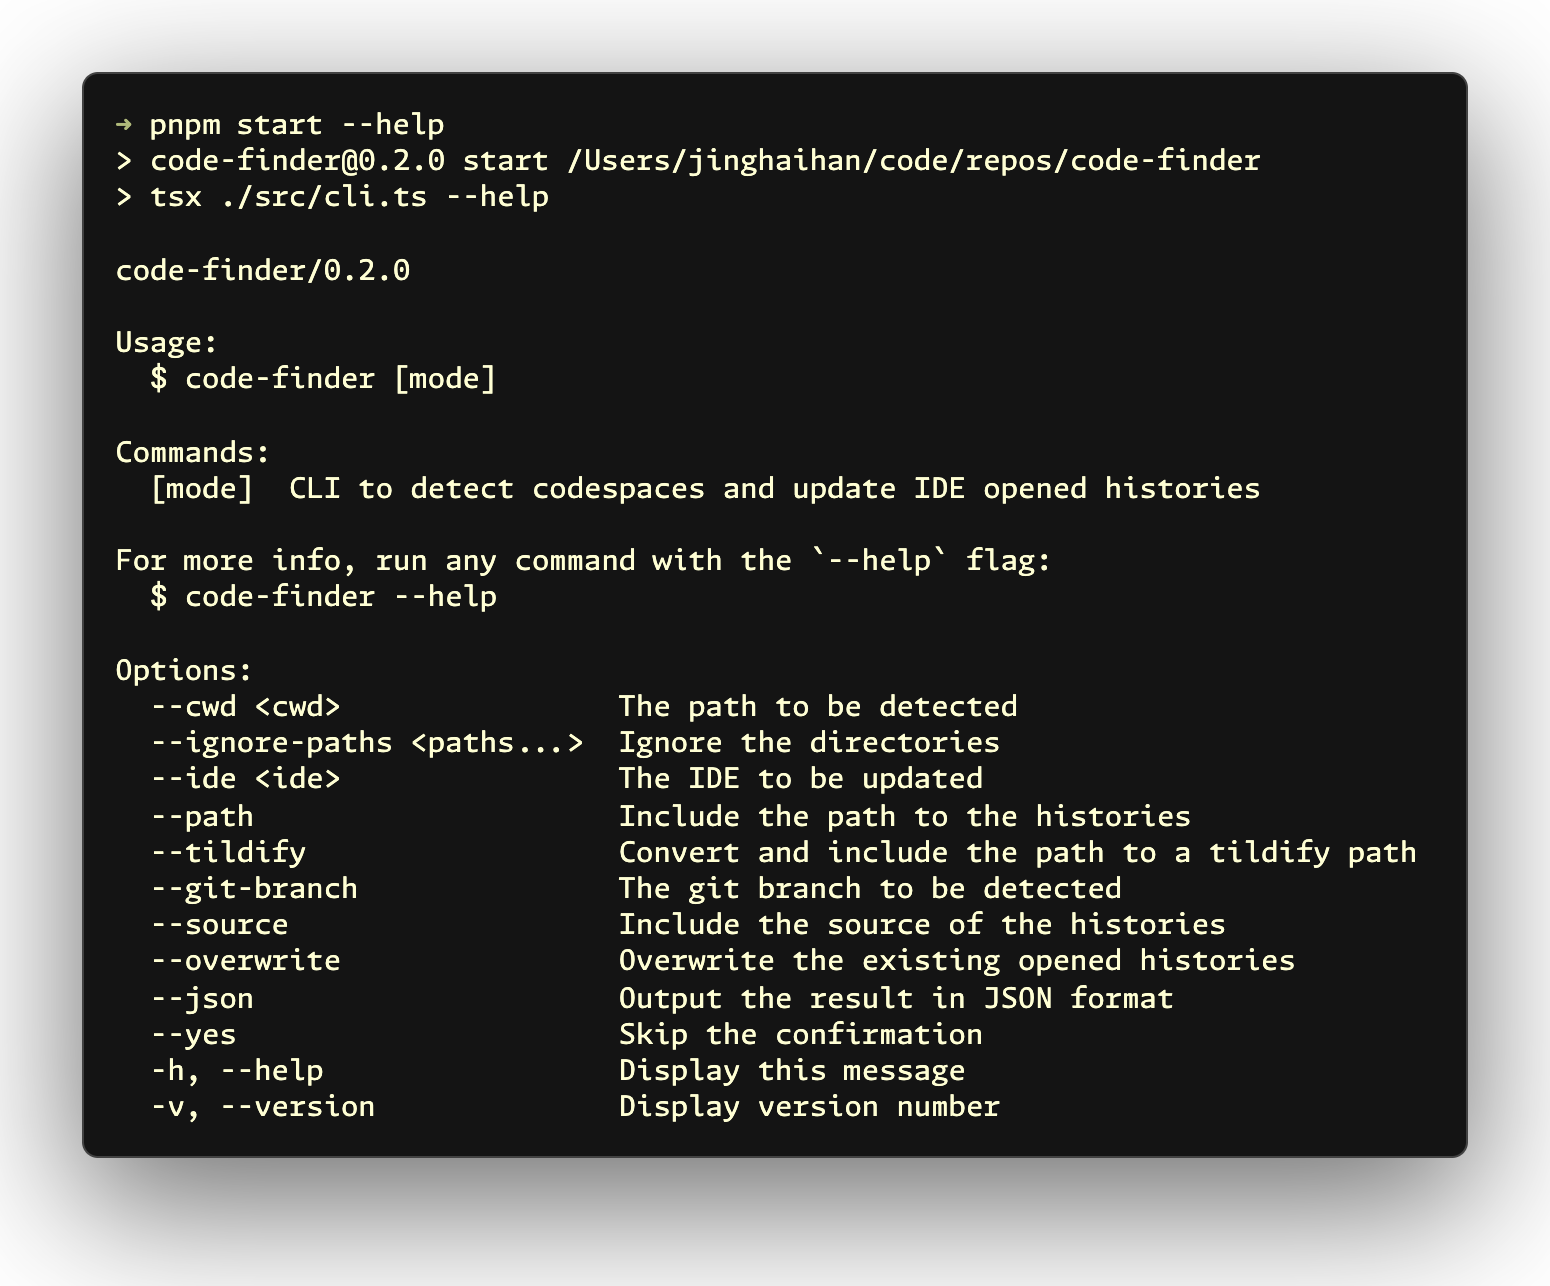
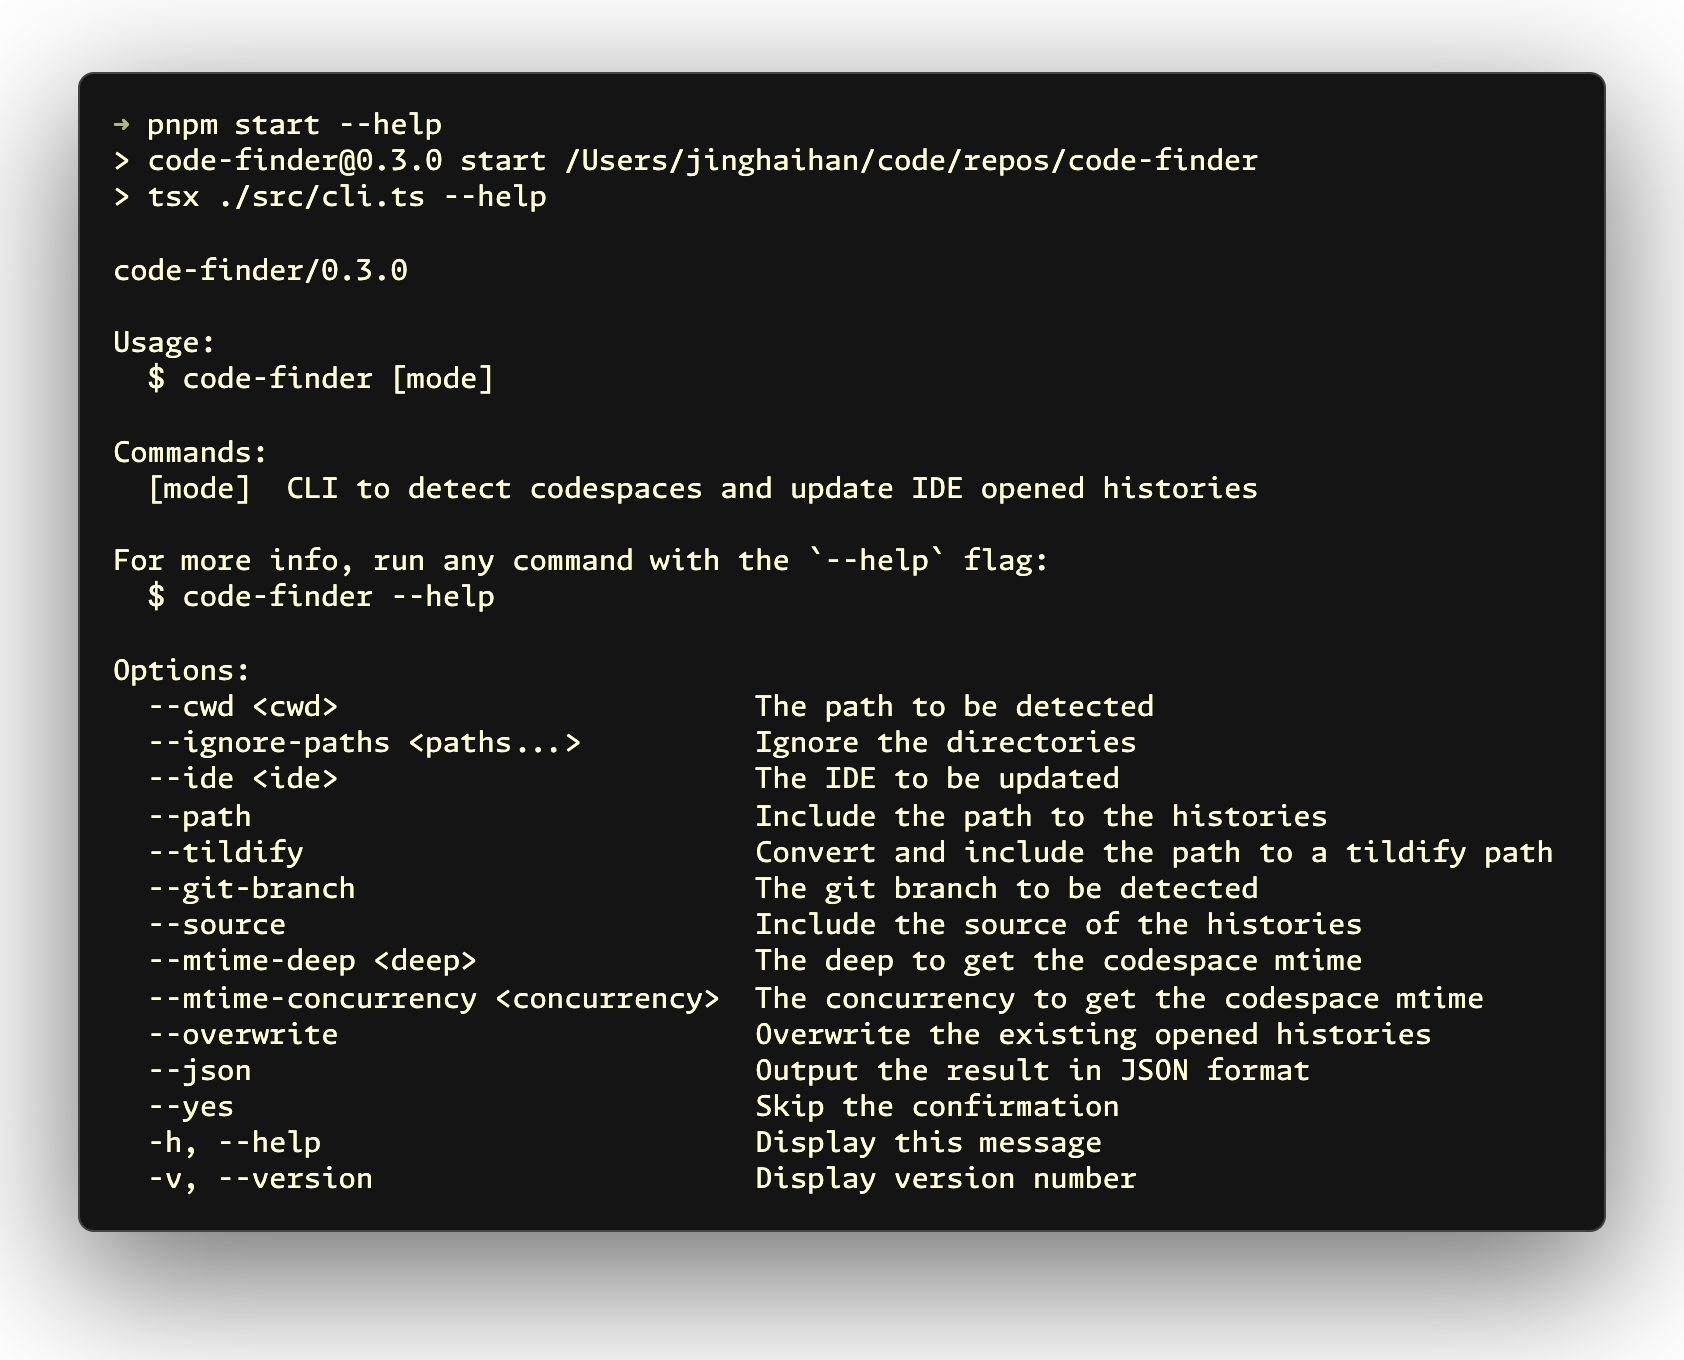
feat: support sort codespaces by mtime

Changed region(s): [[0.031, 0.0311, 0.96, 0.9331], [0.7742, 0.1244, 0.8052, 0.1555], [0.6503, 0.4355, 0.6813, 0.4666]]

diff --git a/src/detect.ts b/src/detect.ts
@@ -1,8 +1,11 @@
-import type { HistoryEntry } from './types'
+import type { DetectOptions, HistoryEntry } from './types'
 import { existsSync } from 'node:fs'
+import { stat } from 'node:fs/promises'
 import { pathToFileURL } from 'node:url'
+import pLimit from 'p-limit'
 import { basename, join } from 'pathe'
-import { CODESPACE_DIRECTORIES, CODESPACE_FILES, IGNORE_DIRECTORIES } from './constants'
+import { CODESPACE_DIRECTORIES, CODESPACE_FILES, DEFAULT_OPTIONS, IGNORE_DIRECTORIES, IGNORE_FILES } from './constants'
+import { sortByMtime } from './utils'
 
 async function readDirs(path: string, ignorePaths: string[]) {
   const { glob } = await import('tinyglobby')
@@ -33,22 +36,74 @@ export async function isCodespace(path: string, ignorePaths: string[]): Promise<
   return dirs
 }
 
-export async function detectCodespaces(path: string, ignorePaths: string[] = []): Promise<HistoryEntry[]> {
+export async function getCodespaceMtime(cwd: string, mtimeDeep: number = DEFAULT_OPTIONS.mtimeDeep, concurrency: number = DEFAULT_OPTIONS.mtimeConcurrency): Promise<number> {
+  const dirStrategy = async () => {
+    const stats = await stat(cwd)
+    return stats.mtime.getTime()
+  }
+
+  const fileStrategy = async (): Promise<number> => {
+    const { glob } = await import('tinyglobby')
+    const files = await glob('*', {
+      cwd,
+      dot: true,
+      absolute: true,
+      onlyFiles: false,
+      deep: mtimeDeep,
+      ignore: [
+        ...IGNORE_FILES,
+        ...IGNORE_DIRECTORIES,
+      ],
+    })
+    if (!files.length)
+      return await dirStrategy()
+
+    const limit = pLimit(concurrency)
+    const results = await Promise.all(files.map(file => limit(() => stat(file))))
+    return Math.max(...results.map(result => result.mtime.getTime()))
+  }
+
+  if (mtimeDeep === 0 || Number.isNaN(mtimeDeep)) {
+    try {
+      return await dirStrategy()
+    }
+    catch {
+      return 0
+    }
+  }
+
+  try {
+    return await fileStrategy()
+  }
+  catch {
+    try {
+      return await dirStrategy()
+    }
+    catch {
+      return 0
+    }
+  }
+}
+
+export async function detectCodespaces(options: DetectOptions): Promise<HistoryEntry[]> {
+  const { cwd, ignorePaths, mtimeDeep, mtimeConcurrency } = options
   const entries: HistoryEntry[] = []
 
-  const res = await isCodespace(path, ignorePaths)
+  const res = await isCodespace(cwd, ignorePaths)
   if (typeof res === 'boolean') {
-    const fileURL = pathToFileURL(path)
+    const fileURL = pathToFileURL(cwd)
+    const mtime = await getCodespaceMtime(cwd, mtimeDeep, mtimeConcurrency)
     entries.push({
       folderUri: fileURL.href.replace(/\/$/, ''),
+      mtime,
     })
     return entries
   }
 
   for (const dir of res) {
-    const space = await detectCodespaces(dir, ignorePaths)
+    const space = await detectCodespaces({ ...options, cwd: dir })
     entries.push(...space)
   }
 
-  return entries
+  return sortByMtime(entries)
 }

diff --git a/src/utils.ts b/src/utils.ts
@@ -13,7 +13,7 @@ export function capitalize(str: string): string {
   return str.charAt(0).toUpperCase() + str.slice(1)
 }
 
-export function normalizePath(path: string) {
+export function normalizePath(path: string): string {
   if (path.startsWith('file://')) {
     try {
       return fileURLToPath(path)
@@ -35,7 +35,7 @@ export async function hasSqlite3(): Promise<boolean> {
   }
 }
 
-export async function ensureSqlite3() {
+export async function ensureSqlite3(): Promise<void> {
   if (!await hasSqlite3()) {
     if (!isPackageExists('better-sqlite3')) {
       const spinner = p.spinner()
@@ -59,4 +59,16 @@ export function extractJSON(stdout: string): HistoryEntry[] | undefined {
   catch {
     // safe guard
   }
+}
+
+export function sortByMtime(data: HistoryEntry[]): HistoryEntry[] {
+  return data.sort((a, b) => {
+    if (a.mtime && b.mtime)
+      return b.mtime - a.mtime
+    if (a.mtime && !b.mtime)
+      return -1
+    if (!a.mtime && b.mtime)
+      return 1
+    return 0
+  })
 }

diff --git a/src/database/vscode.ts b/src/database/vscode.ts
@@ -7,7 +7,7 @@ import * as p from '@clack/prompts'
 import c from 'ansis'
 import { join } from 'pathe'
 import { EDITOR_NAME_MAP } from '../constants'
-import { execFileAsync, hasSqlite3, normalizePath } from '../utils'
+import { execFileAsync, hasSqlite3, normalizePath, sortByMtime } from '../utils'
 
 const READ_SQL = 'SELECT value FROM ItemTable WHERE key = \'history.recentlyOpenedPathsList\''
 
@@ -141,7 +141,7 @@ export async function mergeVSCodeHistories(codeName: CodeName, entries: HistoryE
 
 export function uniqVSCodeHistories(data: HistoryEntry[][]): HistoryEntry[] {
   const uri = new Set<string>()
-  return data.flat().filter((entry) => {
+  const filtered = data.flat().filter((entry) => {
     if (entry.folderUri) {
       if (!existsSync(normalizePath(entry.folderUri)))
         return false
@@ -168,6 +168,7 @@ export function uniqVSCodeHistories(data: HistoryEntry[][]): HistoryEntry[] {
     }
     return true
   })
+  return sortByMtime(filtered)
 }
 
 export const vscode = {

diff --git a/src/command.ts b/src/command.ts
@@ -17,6 +17,14 @@ export async function executeCommand(options: Partial<CommandOptions>): Promise<
   const config = await resolveConfig(options)
   const entriesRecords = new Map<string, EntrySource[]>()
 
+  const detect = async () => {
+    const spinner = p.spinner()
+    spinner.start('Detecting codespaces')
+    const codespaces = await detectCodespaces(config)
+    spinner.stop('Detecting codespaces completed')
+    return codespaces
+  }
+
   const traverse = async (data: HistoryEntry[]) => {
     if (!config.path && !config.tildify && !config.gitBranch && !config.source)
       return
@@ -52,7 +60,8 @@ export async function executeCommand(options: Partial<CommandOptions>): Promise<
     })
   }
 
-  const codespaces = config.cwd ? await detectCodespaces(config.cwd, config.ignorePaths) : []
+  const codespaces = config.cwd ? await detect() : []
+
   recordEntries(codespaces, 'Codespace')
 
   const codespacesInterceptor = () => {

diff --git a/src/constants.ts b/src/constants.ts
@@ -1,4 +1,3 @@
-import type { CommandOptions } from './types'
 import pkgJson from '../package.json'
 
 export const NAME = pkgJson.name
@@ -6,10 +5,11 @@ export const VERSION = pkgJson.version
 
 export const MODE_CHOICES = ['update', 'detect', 'combine'] as const
 
-export const DEFAULT_OPTIONS: Partial<CommandOptions> = {
-  mode: 'update',
+export const DEFAULT_OPTIONS = {
   ignorePaths: [],
   path: false,
+  mtimeDeep: 1,
+  mtimeConcurrency: 30,
   tildify: false,
   gitBranch: false,
   source: false,
@@ -62,6 +62,22 @@ export const LOCK_FILES = [
 ]
 
 export const IGNORE_DIRECTORIES = ['**/node_modules/**']
+
+export const IGNORE_FILES = [
+  'node_modules/**',
+  '.git/**',
+  '.github/**',
+  '.hg/**',
+  '.svn/**',
+  'dist/**',
+  'build/**',
+  'coverage/**',
+  '.next/**',
+  '.nuxt/**',
+  '*.log',
+  'tmp/**',
+  'temp/**',
+]
 
 export const CODESPACE_DIRECTORIES = [
   ...VERSION_CONTROL_DIRECTORIES,

diff --git a/src/types.ts b/src/types.ts
@@ -12,6 +12,8 @@ export interface CommandOptions {
   ignorePaths?: string | string[]
   ide?: CodeName[]
   path?: boolean
+  mtimeDeep?: number
+  mtimeConcurrency?: number
   tildify?: boolean
   gitBranch?: boolean
   source?: boolean
@@ -24,6 +26,8 @@ export interface Options extends Required<Omit<CommandOptions, 'ignorePaths'>> {
   ignorePaths: string[]
 }
 
+export interface DetectOptions extends Pick<Options, 'cwd' | 'ignorePaths' | 'mtimeDeep' | 'mtimeConcurrency'> {}
+
 export interface History {
   entries: HistoryEntry[]
 }
@@ -34,6 +38,7 @@ export interface HistoryEntry {
   path?: string
   source?: EntrySource[]
   branch?: string
+  mtime?: number
 }
 
 export type EntrySource = CodeName | 'Codespace'

diff --git a/src/config.ts b/src/config.ts
@@ -31,8 +31,15 @@ export async function resolveConfig(options: CommandOptions): Promise<Options> {
 
   return {
     ...options,
+    mode: options.mode || 'update',
     cwd: options.cwd ? resolve(options.cwd) : undefined,
     ide,
     ignorePaths: Array.isArray(ignorePaths) ? ignorePaths : [ignorePaths],
+    mtimeDeep: (options.mtimeDeep || options.mtimeDeep === 0)
+      ? Number(options.mtimeDeep)
+      : DEFAULT_OPTIONS.mtimeDeep,
+    mtimeConcurrency: options.mtimeConcurrency
+      ? Number(options.mtimeConcurrency)
+      : DEFAULT_OPTIONS.mtimeConcurrency,
   } as Options
 }

diff --git a/src/cli.ts b/src/cli.ts
@@ -20,6 +20,8 @@ try {
     .option('--tildify', 'Convert and include the path to a tildify path')
     .option('--git-branch', 'The git branch to be detected')
     .option('--source', 'Include the source of the histories')
+    .option('--mtime-deep <deep>', 'The deep to get the codespace mtime')
+    .option('--mtime-concurrency <concurrency>', 'The concurrency to get the codespace mtime')
     .option('--overwrite', 'Overwrite the existing opened histories')
     .option('--json', 'Output the result in JSON format')
     .option('--yes', 'Skip the confirmation')
